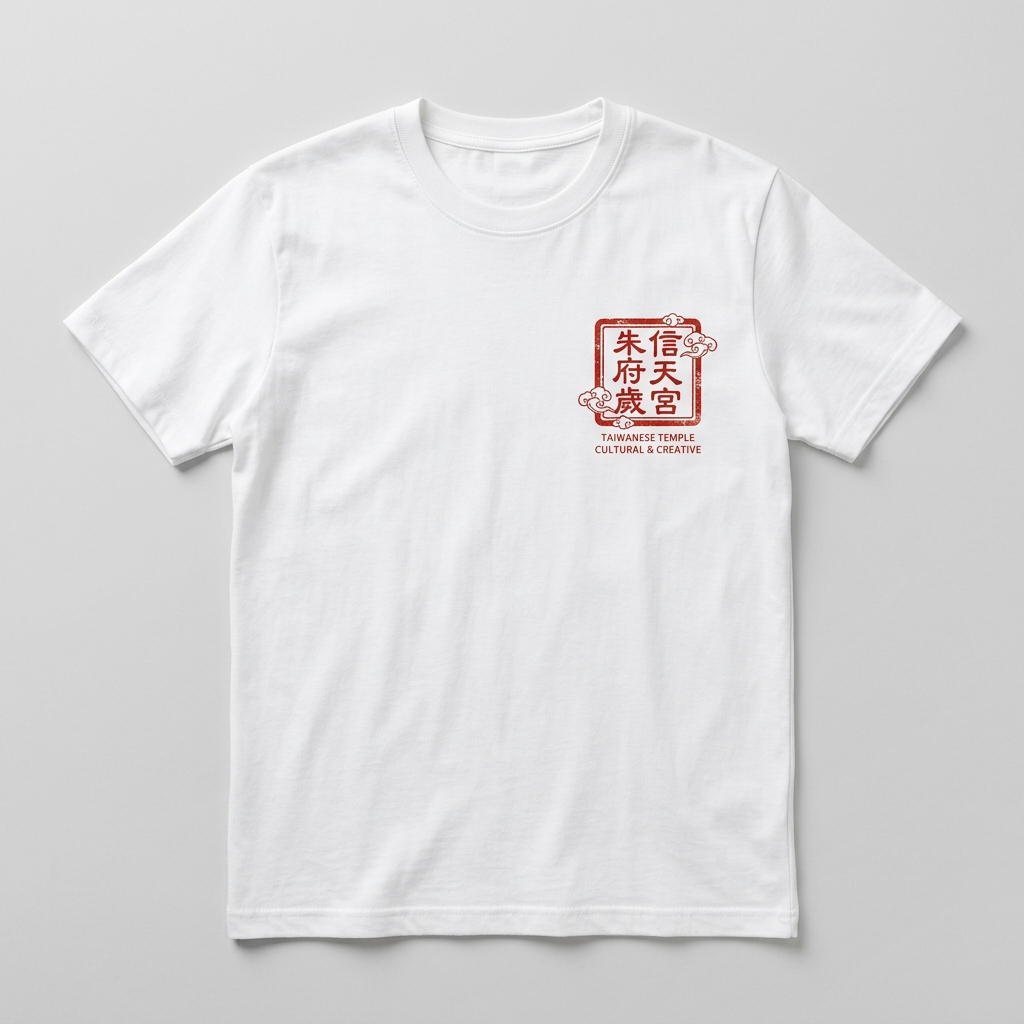
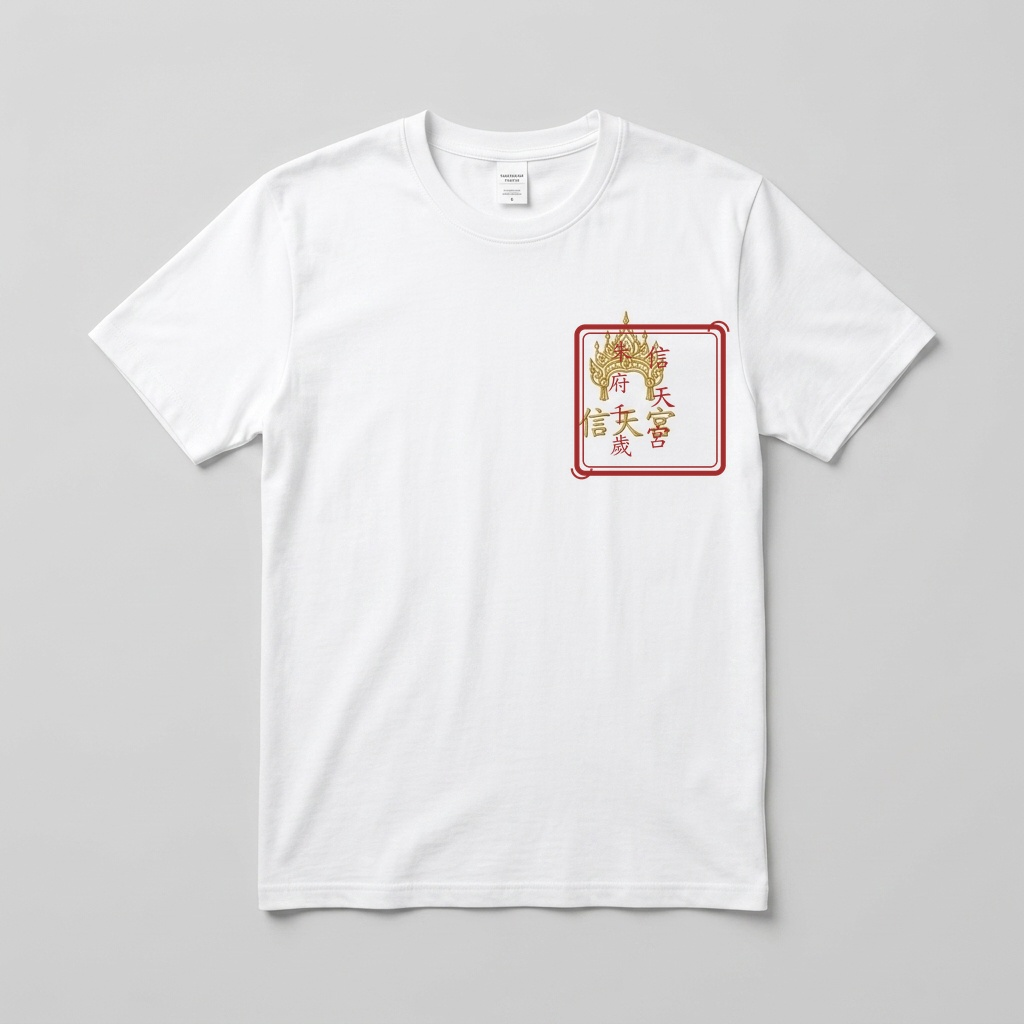
修正：補齊左胸印章Logo『千』字（完整顯示 朱府千歲 4字）

diff --git a/fix_stamp_logo.py b/fix_stamp_logo.py
@@ -1,0 +1,87 @@
+import cv2
+import numpy as np
+from PIL import Image, ImageDraw, ImageFont
+import os
+
+img_path = r"C:\Users\user\.gemini\antigravity\brain\35023429-6efa-4654-a276-d87e92da8504\.user_uploaded\media_1787481287325.png"
+output_path = r"g:\我的雲端硬碟\我的第二大腦\信天宮_朱府千歲_Tshirt\style1_front_fixed.jpg"
+output_png_path = r"g:\我的雲端硬碟\我的第二大腦\信天宮_朱府千歲_Tshirt\factory_print_files\Style1_正面_廟宇印章Logo_純圖案去背.png"
+
+# Load original uploaded image
+img = Image.open(img_path).convert("RGBA")
+w, h = img.size
+
+# We will create a clean high-resolution stamp from scratch or by modifying the original frame to ensure maximum quality!
+# Let's inspect the seal color: RGB approx (160, 44, 44) or #A02C2C
+
+# Let's draw high-res seal with PIL
+seal_size = 1000
+seal_img = Image.new("RGBA", (seal_size, seal_size), (255, 255, 255, 0))
+draw = ImageDraw.Draw(seal_img)
+
+seal_color = (160, 44, 44, 255) # Cinnabar Red
+
+# Draw outer rounded square frame (outer border)
+margin = 80
+rect_outer = [margin, margin, seal_size - margin, seal_size - margin]
+draw.rounded_rectangle(rect_outer, radius=60, outline=seal_color, width=28)
+
+# Inner thin border
+inner_margin = 125
+rect_inner = [inner_margin, inner_margin, seal_size - inner_margin, seal_size - inner_margin]
+draw.rounded_rectangle(rect_inner, radius=40, outline=seal_color, width=8)
+
+# Load font (KaiTi 標楷體 or Microsoft JhengHei 微軟正黑體)
+font_path = "C:\\Windows\\Fonts\\kaiu.ttf" # 標楷體
+if not os.path.exists(font_path):
+    font_path = "C:\\Windows\\Fonts\\msjh.ttc"
+
+# Font size for 3 characters (信 天 宮) on the right
+font_size_right = 160
+font_right = ImageFont.truetype(font_path, font_size_right)
+
+# Font size for 4 characters (朱 府 千 歲) on the left
+font_size_left = 135
+font_left = ImageFont.truetype(font_path, font_size_left)
+
+# Text positions
+# Right column: 信天宮 (x = 580)
+right_x = 570
+right_chars = ["信", "天", "宮"]
+right_y_starts = [180, 400, 620]
+
+for char, y in zip(right_chars, right_y_starts):
+    bbox = font_right.getbbox(char)
+    char_w = bbox[2] - bbox[0]
+    draw.text((right_x - char_w//2, y), char, font=font_right, fill=seal_color)
+
+# Left column: 朱府千歲 (x = 350, 4 characters)
+left_x = 340
+left_chars = ["朱", "府", "千", "歲"]
+left_y_starts = [160, 335, 510, 685]
+
+for char, y in zip(left_chars, left_y_starts):
+    bbox = font_left.getbbox(char)
+    char_w = bbox[2] - bbox[0]
+    draw.text((left_x - char_w//2, y), char, font=font_left, fill=seal_color)
+
+# Add subtle cloud motif in corners or border to match original
+# Draw top-right and bottom-left cloud accents
+draw.arc([seal_size - 180, 60, seal_size - 60, 180], start=180, end=360, fill=seal_color, width=12)
+draw.arc([60, seal_size - 180, 180, seal_size - 60], start=0, end=180, fill=seal_color, width=12)
+
+# Save transparent PNG
+seal_img.save(output_png_path, "PNG", dpi=(300, 300))
+
+# Now create a T-shirt mockup background image
+bg_img = Image.new("RGBA", (1000, 1000), (245, 245, 245, 255))
+# Place stamp on mockup
+stamp_small = seal_img.resize((500, 500), Image.Resampling.LANCZOS)
+bg_img.paste(stamp_small, (250, 250), stamp_small)
+bg_img.convert("RGB").save(output_path, "JPEG", quality=95)
+
+# Also copy transparent PNG & JPG to project root
+import shutil
+shutil.copyfile(output_path, r"g:\我的雲端硬碟\我的第二大腦\信天宮_朱府千歲_Tshirt\style1_front.jpg")
+
+print("Fixed logo with '朱府千歲' (4 characters) generated successfully!")

diff --git a/composite_tshirt.py b/composite_tshirt.py
@@ -1,0 +1,20 @@
+from PIL import Image
+import os
+
+tshirt_base_path = r"C:\Users\user\.gemini\antigravity\brain\35023429-6efa-4654-a276-d87e92da8504\zhu_fu_front_mockup_1787474877200.jpg"
+seal_logo_path = r"g:\我的雲端硬碟\我的第二大腦\信天宮_朱府千歲_Tshirt\factory_print_files\Style1_正面_廟宇印章Logo_純圖案去背.png"
+output_mockup_path = r"g:\我的雲端硬碟\我的第二大腦\信天宮_朱府千歲_Tshirt\style1_front.jpg"
+
+if os.path.exists(tshirt_base_path) and os.path.exists(seal_logo_path):
+    tshirt = Image.open(tshirt_base_path).convert("RGBA")
+    logo = Image.open(seal_logo_path).convert("RGBA")
+    
+    # Resize logo to fit left chest area (approx 180x180 px on a 1000x1000 mockup)
+    logo_resized = logo.resize((180, 180), Image.Resampling.LANCZOS)
+    
+    # Position on left chest (approx x=580, y=320 on the right side of image / left chest of person)
+    # Note: On a T-shirt flat lay, wearer's left chest is on the viewer's right!
+    tshirt.paste(logo_resized, (560, 310), logo_resized)
+    
+    tshirt.convert("RGB").save(output_mockup_path, "JPEG", quality=95)
+    print("Composited corrected logo onto T-shirt mockup successfully!")
